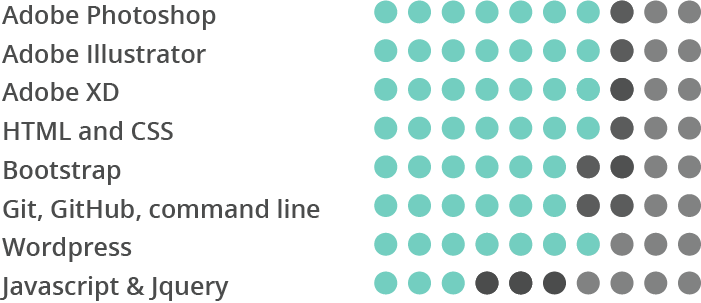
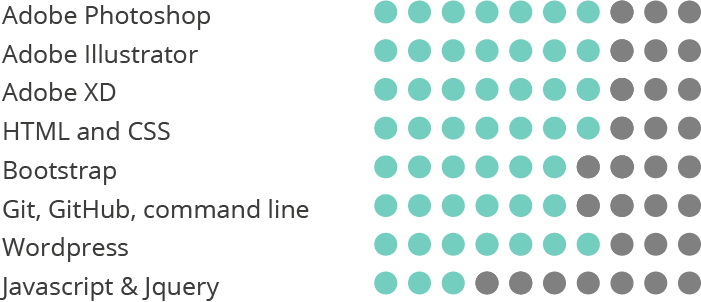
finalized waypoints

diff --git a/index.html b/index.html
@@ -176,7 +176,7 @@
         </section>
             
      
-       <section id="skills" class="fadein">
+       <section id="skills">
         <div class="content-wrapper">
         
             <h2>Things I do</h2>
@@ -184,7 +184,7 @@
             <div id="skill">
             <article> 
 
-                <img src="img/ux-design-icon.png" class="skill-icon-img" alt="ux design icon">
+                <img src="img/ux-design-icon.png" class="skill-icon-img movement" alt="ux design icon">
 
              <h4 class="skill-name">User Experience</h4>
              <p class="skill-description">Conceiving and conducting user research, translating the results into sitemaps, user flows, mockups and prototypes.</p>
@@ -192,7 +192,7 @@
             
              <article> 
 
-                <img src="img/paint-with-pallette.png" class="skill-icon-img" alt="visual design icon">
+                <img src="img/paint-with-pallette.png" class="skill-icon-img movement" alt="visual design icon">
   
              <h4 class="skill-name">Visual and Web Design</h4>
              <p class="skill-description">Shape and improve the user experience through smart combination of colors, typography, space and layouts.</p>
@@ -200,7 +200,7 @@
             
              <article> 
 
-                <img src="img/coding.png" class="skill-icon-img" alt="development icon">
+                <img src="img/coding.png" class="skill-icon-img movement" alt="development icon">
 
              <h4 class="skill-name">Development</h4>
              <p class="skill-description">Build dynamic Wordpress sites, code SEO friendly responsive sites using HTML, CSS, basic JavaScript and jQuery.</p>     
@@ -220,7 +220,7 @@
             <img src="img/tech-skills.png" alt="tech skills diagram"> 
             </figure>
             <figure id="right" class="slidein-right">
-              <img src="img/languages.png" alt="language skills diagram"> 
+              <img src="img/languages-eng.png" alt="language skills diagram"> 
             </figure>
         </div>
   
@@ -229,7 +229,7 @@
     
 </section>
     
-<section id="testimonials">
+<section id="testimonials" class="fadein">
     <div class="content-wrapper">
         <h2>Testimonials</h2>
         <div id="reviews">

diff --git a/css/main.css b/css/main.css
@@ -759,11 +759,37 @@ li a:hover {
     margin-bottom: 2em;
 }
 
+
+/*making skill icons jump*/
+
+.movement-waypoint {
+    animation: jump .5s;
+}
+
+@keyframes jump {
+  0% {
+    transform: translateY(0px);
+  }
+  30% {
+     transform: translateY(20px);
+  }
+    60% {
+     transform: translateY(0px);
+  }
+   90% {
+     transform: translateY(10px);
+  } 
+  100% {
+     transform: translateY(0px);
+  }
+}
+
+
 /*diagrams*/
 
 #diagrams {
     background-color: #EDECEA;
-    padding: 3% 0;
+    padding: 3%;
     
 }
 
@@ -847,7 +873,18 @@ li a:hover {
 
 #testimonials p {
     text-align: center;
+    
 }
+
+.fadein {
+    opacity: 0.2;
+    transition: all 1.5s ease-in;
+}
+
+.fadein-waypoint {
+    opacity: 1;
+}
+
 
 
 /*contact*/
@@ -1004,26 +1041,22 @@ label {
     color: #73CEC0;
 }
 
-.fadein {
-    opacity: 0;
-    transition: all 350ms ease-in;
+
+/*
+#contact h2 {
+    animation: slidein 3s;
 }
 
-.fadein-waypoint {
-    opacity: 1;
-}
+@keyframes slidein {
+  from {
+    margin-left: 100%;
+  }
 
-/*article {
-opacity: 0;
-transform: translate(0, 20px); 
-transition: all 3s;
-}
+  to {
+    margin-left: 0%;
+  }
+}*/
 
-article.visible {
-opacity: 1;
-transform: translate(0, 0); 
-}
-*/
 
 /*Dorothy*/
 

diff --git a/js/waypoints.js b/js/waypoints.js
@@ -1,4 +1,4 @@
-// fading in Skills section on scroll
+// fading in portfolio section on scroll
 
 
 var $fadein = $(".fadein");
@@ -11,6 +11,17 @@ $fadein.waypoint(function(direction){
         }
 }, {offset: '50%'});
 
+// jumping skill icons
+
+var $move = $(".movement");
+
+$move.waypoint(function(direction){
+    if (direction == 'down'){
+    $move.addClass('movement-waypoint');
+        } else {
+      $move.removeClass('movement-waypoint');      
+        }
+}, {offset: '50%'});
 
 //sliding in the tech skills diagram
 
@@ -24,7 +35,7 @@ $slideInLeft.waypoint(function(direction){
         } else {
       $slideInLeft.removeClass('diagram-animate-left');      
         }
-}, {offset: '70%'});
+}, {offset: '50%'});
 
 
 
@@ -38,8 +49,9 @@ $slideInRight.waypoint(function(direction){
         } else {
       $slideInRight.removeClass('diagram-animate-right');      
         }
-}, {offset: '80%'});
+}, {offset: '50%'});
 
 });
+
 
 
